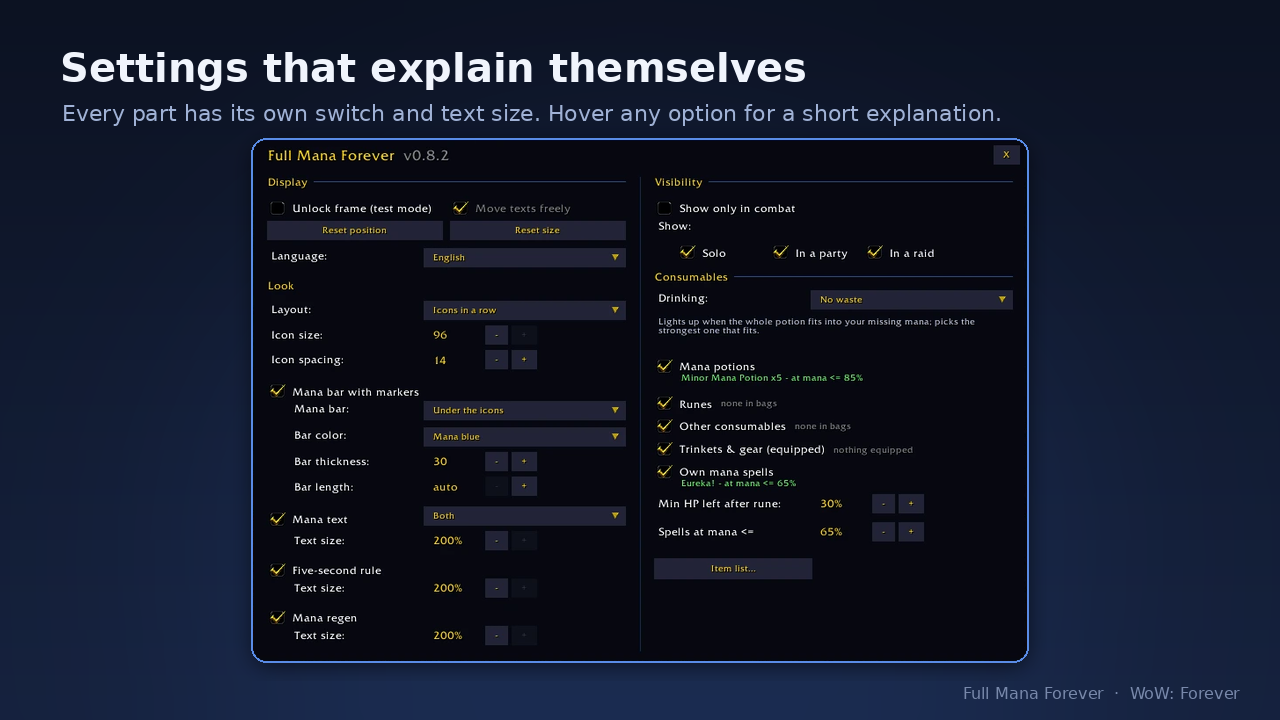
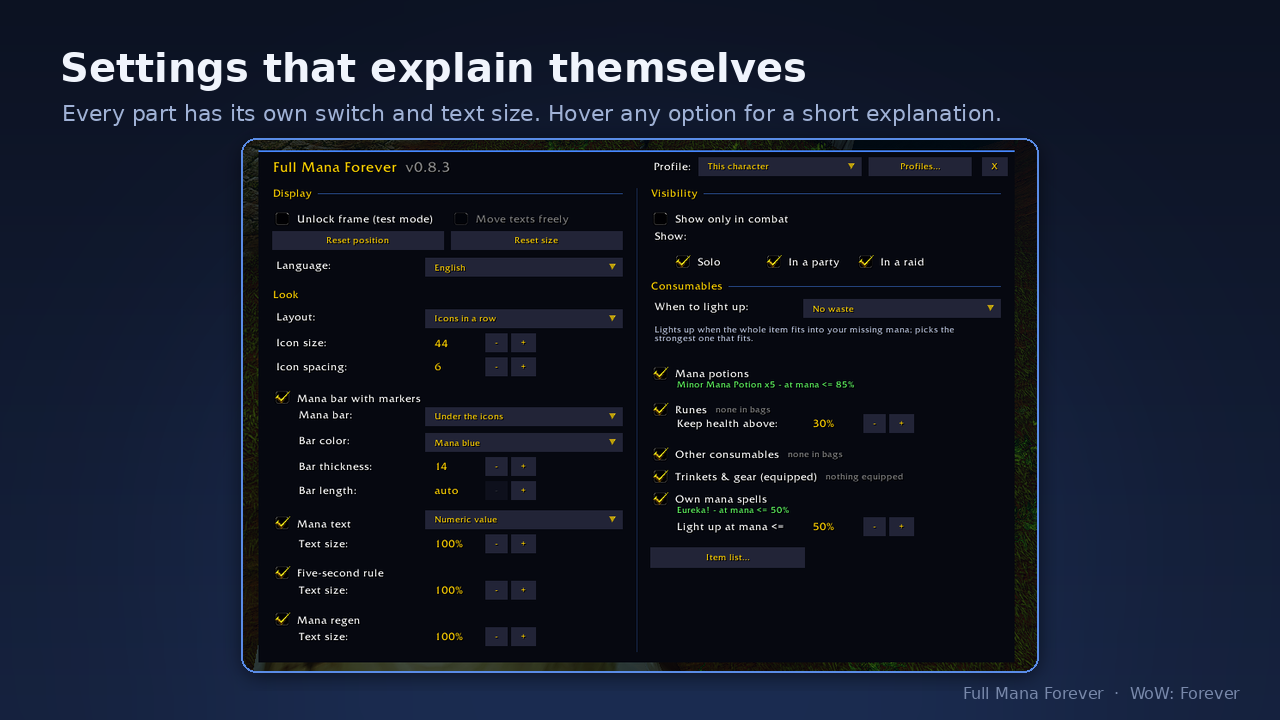
Gallery: 0.8.3 settings and profiles/hold images; tested-so-far note; roadmap: release on 11 Oct

Changed region(s): [[0.1875, 0.1833, 0.8125, 0.9472]]

diff --git a/tools/gallery.py b/tools/gallery.py
@@ -180,6 +180,17 @@ if __name__ == "__main__":
         make("08_unlocked.png", "Easy to place",
              "Unlock the frame: everything that is switched on shows up, grey where you carry nothing.",
              [(crop("images/141.webp", (1150, 132, 1480, 240), 2.9), "")], top=190)
+    if only("06v3"):
+        # 0.8.3 window: profile switch in the title, thresholds under their groups
+        make("06_settings.png", "Settings that explain themselves",
+             "Every part has its own switch and text size. Hover any option for a short explanation.",
+             [(crop("images/249.png", (0, 0, 924, 618), 0.86), "")], top=140)
+    if only("13"):
+        make("13_profiles_hold.png", "Profiles and potions on hold",
+             "Shared settings or your own per character. /fmf hold keeps potions for the next fight.",
+             [(crop("images/246.png", (219, 262, 760, 436), 1.15), "Copy another character's settings"),
+              (crop("images/222.webp", (1060, 140, 1375, 235), 1.5), "/fmf hold: grey until the fight ends")],
+             top=250)
     if only("06n"):
         # 0.8.2 window: every part has its own switch, switched-off settings stay greyed out
         make("06_settings.png", "Settings that explain themselves",

diff --git a/CURSEFORGE.md b/CURSEFORGE.md
@@ -71,7 +71,7 @@ The settings are also in *Options → AddOns → Full Mana Forever* and in the a
 
 ## Tested so far
 
-Works in combat. Tested in Forever at low level: priest 16–20 (also with Spirit Tap for the regen display; a mana potion comes back after its 2-minute cooldown in the same fight; wanding; own spells with the gnome's Eureka! and Inner Focus, in and out of combat), Ley Line reading on a Skyborne mage, the regen colours while drinking, with Spirit Tap and after Ley Line reading. Level-60 items (runes, raid trinkets) and the other own spells (Evocation, Innervate, Mana Tide, Life Tap) could not be tested in the beta yet. Please report anything odd — see *Bug reports* below.
+Works in combat. Tested in Forever at low level: priest 16–20 (also with Spirit Tap for the regen display; a mana potion comes back after its 2-minute cooldown in the same fight; wanding; own spells with the gnome's Eureka! and Inner Focus, in and out of combat), Ley Line reading on a Skyborne mage, the regen colours while drinking, with Spirit Tap and after Ley Line reading, per-character profiles across several characters and `/fmf hold` in and out of combat. Level-60 items (runes, raid trinkets) and the other own spells (Evocation, Innervate, Mana Tide, Life Tap) could not be tested in the beta yet. Please report anything odd — see *Bug reports* below.
 
 ## Planned
 

diff --git a/CLAUDE.md b/CLAUDE.md
@@ -94,9 +94,10 @@ and `/fmf log` (kept in releases for bug reports).
 1. Owner tests 0.8.3 profiles in game (blocks everything else).
 2. 0.8.3 step 3: settings order and wording (thresholds under their groups, "Drinking" ->
    "When to light up" in all languages); new settings screenshot for the gallery.
-3. Release 0.8.3 (~14-15 Oct): merge PR (new README with docs/images goes live), owner tags
-   v0.8.3, GitHub release in the new format, new CurseForge description (CURSEFORGE.md), new
-   gallery image for profiles and /fmf hold.
+3. Release 0.8.3 on 11 Oct (owner: one release per day until the beta ends): merge PR (new README with docs/images goes live), owner tags
+   v0.8.3, GitHub release in the new format, new CurseForge description (CURSEFORGE.md); gallery:
+   06_settings replaced (0.8.3 window), 13_profiles_hold new (docs/gallery). Then: owner's
+   CurseForge author profile (avatar/bio/links) wanted.
 4. Before 21 Oct: request a listing on foreverchanges.pro (if they take submissions); 16-20 Oct
    only fixes. 21 Oct (beta end): the most stable and complete version is out.
 5. Launch 4 Nov (EU 5 Nov): check the Interface number of the live client (16001 may change),
